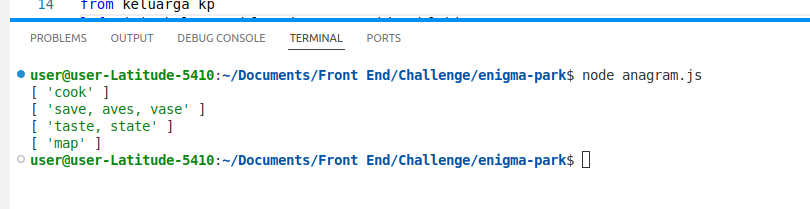
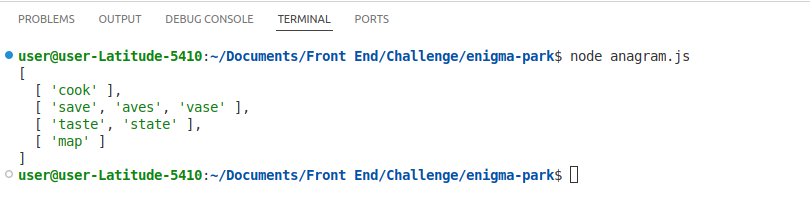
test: Test Answer

diff --git a/anagram.js b/anagram.js
@@ -41,13 +41,13 @@ function anagram(input) {
   for (let i = 0; i < input.length; i++) {
     for (let j = 0; j < input.length; j++) {
       if (splitToArray(input[i]).toString() == splitToArray(input[j]).toString()) {
-        arrTemp[i] = arrTemp[i] + input[j] + ", ";
+        arrTemp[i] = arrTemp[i] + input[j] + " ";
       }
     }
     arrTemp[i] = arrTemp[i].replace("undefined", "").trim();
 
     let stringTemp = "";
-    for (let j = 0; j < arrTemp[i].length - 1; j++) {
+    for (let j = 0; j < arrTemp[i].length; j++) {
       stringTemp += arrTemp[i][j];
     }
 
@@ -55,7 +55,7 @@ function anagram(input) {
   }
 
   for (let i = 0; i < arrTemp.length; i++) {
-    result[i] = [arrTemp[i]];
+    result[i] = arrTemp[i].split(" ");
   }
 
   return removeDuplicate(result);
@@ -64,6 +64,5 @@ function anagram(input) {
 let input = ["cook", "save", "taste", "aves", "vase", "state", "map"];
 const result = anagram(input);
 
-for (let i = 0; i < result.length; i++) {
-  console.log(result[i]);
-}
+console.log(result);
+
